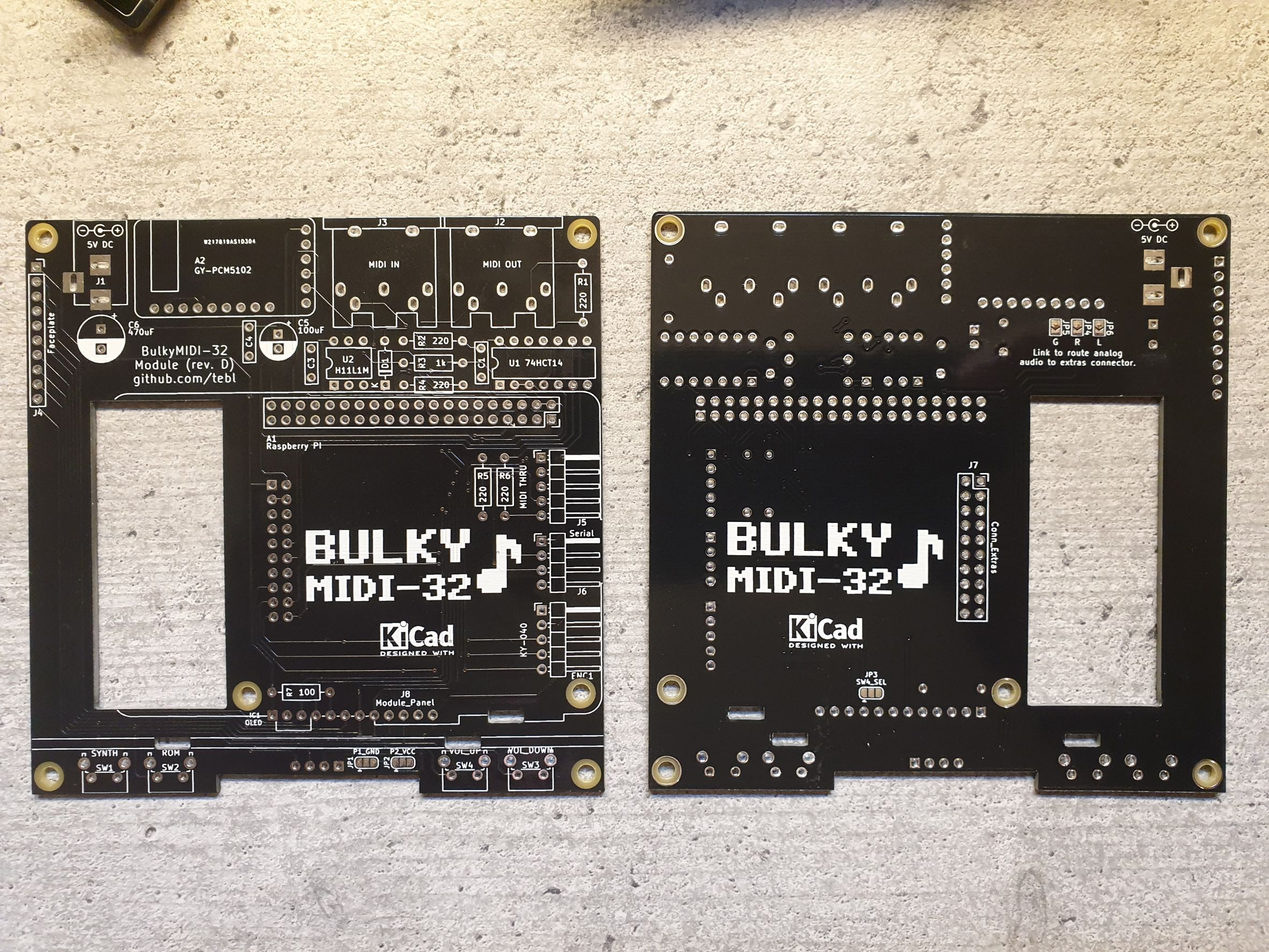
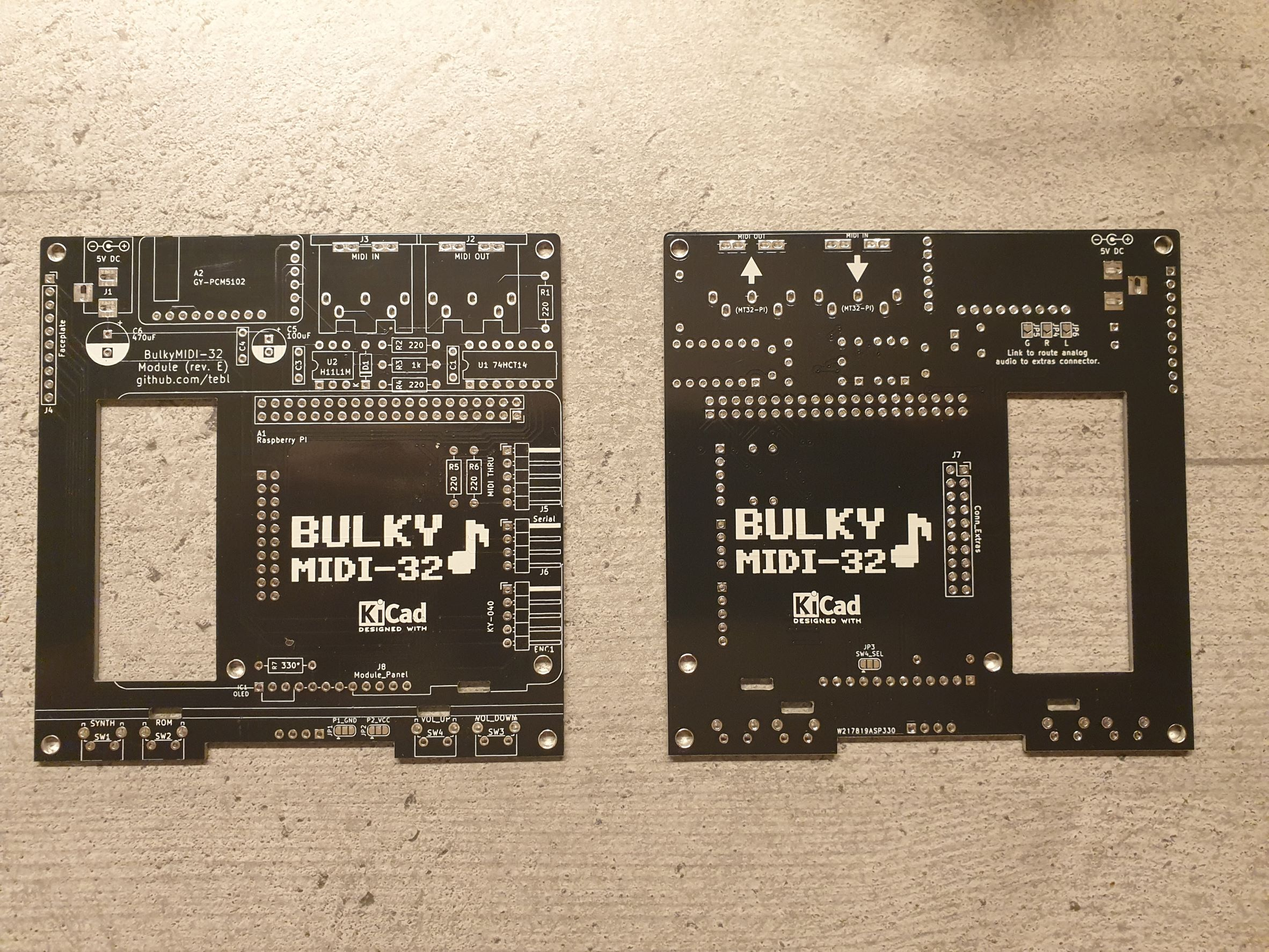
Add some images

diff --git a/BulkyMIDI-32 Module/README.md b/BulkyMIDI-32 Module/README.md
@@ -163,22 +163,25 @@ Most parts should be easy to get a hold of from your favourite local electronic 
 | C6                    | 470uF electrolytic capacitor (8mm x 3.5mm)                        |     1 |
 | D1                    | 1N4148N small signal diode (DO-35)                                |     1 |
 | ENC1                  | 5-pin right angle pin header                                      |    (1)|
-| IC1                   | 1.3 inch I2C OLED display (can use 0.96 inch display as well)     |     1 |
+| IC1 *2                | 1.3 inch I2C OLED display (can use 0.96 inch display as well)     |     1 |
 | J1                    | 2.1mm x 5.5mm barrel plug                                         |     1 |
 | J2, J3                | Female S-terminal 5pin DIN PCB                                    |     2 |
-| J4                    | 10-pin female header                                              |    (1)|
 | J5                    | 5-pin right angle pin header                                      |    (1)|
 | J6                    | 4-pin right angle pin header                                      |    (1)|
 | J7                    | 2x10 pin header (mounted on underside for extras board)           |    (1)|
 | R1,R2,R4,R5,R6        | 220 ohm resistor                                                  |     5 |
 | R3                    | 1k ohm resistor                                                   |     1 |
-| R7                    | 330 ohm resistor                                                   |   (1)|
-| SW1-SW4               | 6x6x5mm right-angle momentary button                              |     4 |
+| R7 *1                 | 330 ohm resistor                                                   |   (1)|
+| SW1-SW4 *2            | 6x6x5mm right-angle momentary button                              |     4 |
 | U1                    | 74HCT14 (DIP-14)                                                  |     1 |
 | U2                    | H11L1M opto-coupler (DIP-6)                                       |     1 |
-| Mounting ****         | Nylon M3 hex standoffs 20mm (M-F)                                 |     4 |
-| Mounting ****         | Nylon M3 hex standoffs 8mm (M-F)                                  |     2 |
-| Mounting ****         | Nylon M3x6mm nylon screws                                         |     4 |
-| Mounting ****         | Nylon M3x6mm nylon nuts                                           |     8 |
+| Mounting *3           | Nylon M3 hex standoffs 20mm (M-F)                                 |     4 |
+| Mounting *4           | Nylon M3 hex standoffs 20mm (M-F)                                 |     4 |
+| Mounting *3           | Nylon M3 hex standoffs 8mm (M-F)                                  |     6 |
+| Mounting *3           | Nylon M3x6mm nylon screws                                         |     8 |
+| Mounting *3           | Nylon M3x6mm nylon nuts                                           |     6 |
 
-****) These are used in various places of the project, these are available in the form of kits usually advertised *M3 nylon standoff kit* which should contain most of what you'd need.
+1) This is the resistor for the power LED mounted on front-facing panel, the value need to be sized according to the type of LED used. This value is suitable for a red LED of the older type, for any kind of modern component you'll need a value significantly higher (I tend to use 2k2 or 3k3 here depending on the colour).
+2) These components are only used when no other PCBs will be used, ie. no front panel.
+3) These are used in various places of the project, these are available in the form of kits usually advertised *M3 nylon standoff kit* which should contain most of what you'd need.
+4) These are used with a faceplate and are installed on the bottom of the unit. When used with the extras-unit, these will be replaced by another set (4x) of 20mm (M-F) standoffs and another set of nuts to go on the bottom.

diff --git a/faceplates/BulkyMIDI-32 Module FP2/README.md b/faceplates/BulkyMIDI-32 Module FP2/README.md
@@ -3,7 +3,7 @@ A faceplate designed to be installed onto [BulkyMIDI-32 Module Panel](https://gi
 
 Faceplate (FP2) in particular was designed for use with a 1.3" oled display. Note that it has been designed for use without the [extras](https://github.com/tebl/BulkyMIDI-32/tree/main/BulkyMIDI-32%20Extras)-board - if you later intend to build or require the functionality of this board, consider [Faceplate (FP1)](https://github.com/tebl/BulkyMIDI-32/tree/main/faceplates/BulkyMIDI-32%20Module%20FP1). You will need to add a set of 12mm hex standoffs to the bottom of the main-module, mainly because of the size of the OLED-display used.
 
-![](https://github.com/tebl/BulkyMIDI-32/raw/main/gallery/BulkyMIDI-32%20Module%20FP2.png)
+![](https://github.com/tebl/BulkyMIDI-32/raw/main/gallery/BulkyMIDI-32%20Module%20FP1.jpg)
 
 - [1> Schematic](#1-schematic)
 - [2> BOM](#2-bom)
